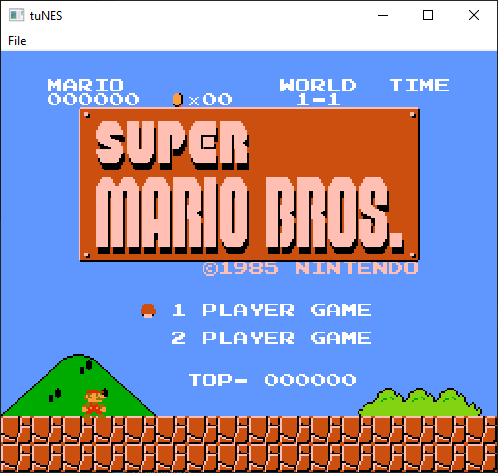
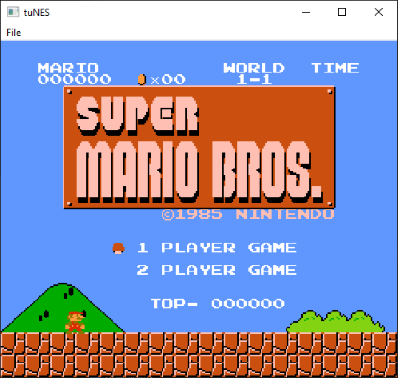
resize tuNES images

diff --git a/index.md b/index.md
@@ -7,9 +7,8 @@ profile:
 published: true
 ---
 
-Welcome! My name is Dom and I like all things programming and video games.  
-Here you'll find all the projects I've worked on and maybe a bit writing about them  
+Welcome! My name is Dom and I like all things programming and video games. Here you'll find all the projects I've worked on and maybe a bit writing about them  
 
-You can check out the [Projects](https://domlawlor.com/projects) or go straight to the source on [Github](https://github.com/domlawlor)  
+You can check out the [Projects](https://domlawlor.com/projects) or go straight to my source code at [Github](https://github.com/domlawlor)  
 
 Feel free to reach out if have any questions about it all at domlawlor1@gmail.com

diff --git a/_projects/1-tuNES.md b/_projects/1-tuNES.md
@@ -17,7 +17,6 @@ Thought my biggest takeaway from this project was learning how assembly code act
 
 ---
 ![Mario](/assets/images/tuNES/marioBros.png)
-![Metroid](/assets/images/tuNES/metroid.png)  
-
+![Metroid](/assets/images/tuNES/metroid.png)
 ![Zelda](/assets/images/tuNES/zelda.png)
 ![Megaman](/assets/images/tuNES/megaman.png)
